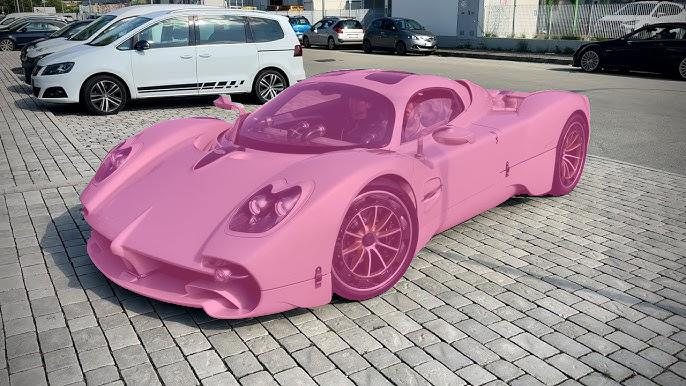
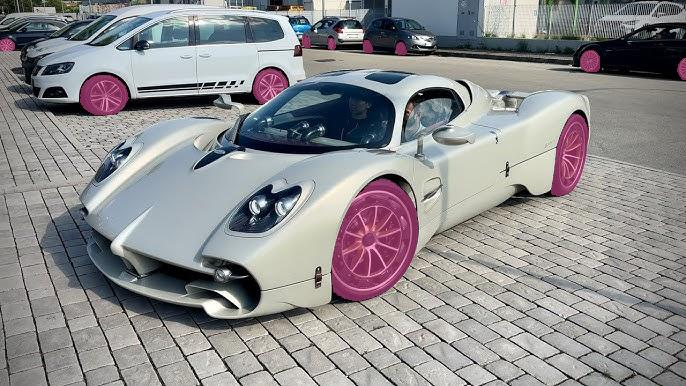
tmp

diff --git a/main.py b/main.py
@@ -1,3 +1,4 @@
+import re
 from PIL import Image
 from models import Llava
 from models import Llama
@@ -16,42 +17,102 @@ def main(inp, image_path):
     llama = Llama()
     qd = QuestionDetector()
 
-    # Generate image description with Llava
-    description = llava.chat(image, inp, None, max_new_tokens=300)
-    print('------------------------------------------------------------------------------------------------------------------------------------------------------------------------------')
-    print('Output description:\n', description)
-    print('------------------------------------------------------------------------------------------------------------------------------------------------------------------------------\n')
-    
-    is_question = qd.is_question(inp)
-    ans = llava.chat(image, inp=inp, is_question=is_question)
-    print('------------------------------------------------------------------------------------------------------------------------------------------------------------------------------')
-    if is_question:
-        print(ans[0])
-        print(ans[1])
-    else:
-        print(ans)
-    print('------------------------------------------------------------------------------------------------------------------------------------------------------------------------------\n')
-    
-    if not is_question:
-        question = f"{ans}"
-        template = "what are the main objects explicitly described in this: {question} and related to " + f"{inp}"
-        ans = llama.chat(question, template)
-        print('------------------------------------------------------------------------------------------------------------------------------------------------------------------------------')
-        print('llama:\n' + ans)
-        print('------------------------------------------------------------------------------------------------------------------------------------------------------------------------------')
+    # 步驟1：使用LLaVA描述圖片
+    description = llava.chat(image, inp, is_question=None)
+    print('Description:', description)
+
+    # 步驟2：使用LLaMA從描述中萃取物件清單
+    extract_system_prompt = """You are a helpful assistant that reads a description of an image and extracts all distinct mentioned objects.
+        Only output a numbered list of objects, one per line, no extra text, no explanations.
+        If no objects are mentioned, write nothing.
+        """
+    extract_user_prompt = f"""
+        Description:
+        \"\"\"{description}\"\"\"
+
+
+        List all distinct mentioned objects as instructed:
+        Format:
+        1. object1
+        2. object2
+    ...
+    """
+    extract_prompt = extract_system_prompt + "\n\n" + extract_user_prompt
+    extracted = llama.chat(extract_prompt)
+    print('Extracted objects (raw):', extracted)
+
+    # 使用正則解析物件列表
+    pattern = r"^\d+\.\s*(.*)$"
+    candidates = re.findall(pattern, extracted.strip(), flags=re.IGNORECASE | re.MULTILINE)
+    candidates = [c.strip() for c in candidates if c.strip()]
+    print("Candidates:", candidates)
+
+    # 若 candidates 為空嘗試一次重試
+    if not candidates:
+        extract_user_prompt_retry = f"""
+            Below is the image description again. Just list the objects, nothing else.
+
+            Description:
+            \"\"\"{description}\"\"\"
+
+
+            Format:
+            1. object1
+            2. object2
+            ...
+        """
+        extract_prompt_retry = extract_system_prompt + "\n\n" + extract_user_prompt_retry
+        extracted_retry = llama.chat(extract_prompt_retry)
+        print('Extracted objects (retry raw):', extracted_retry)
+        candidates = re.findall(pattern, extracted_retry.strip(), flags=re.IGNORECASE | re.MULTILINE)
+        candidates = [c.strip() for c in candidates if c.strip()]
+        print("Candidates after retry:", candidates)
+
+    if not candidates:
+        candidates = []
+
+    # 步驟3：依據使用者的prompt選擇最符合的候選物件
+    # 此階段僅告訴LLaMA要選出最符合描述的物件，無特定範例（泛用）
+    refine_system_prompt = """You have a list of candidate objects from an image and a user request (prompt).
+        Your job is to pick the single best matching object name from the candidate list, based strictly on the prompt.
+        Only output the object name itself or "none" if no suitable match.
+        Do not add any explanations, just output the single best matching object or "none".
+        """
+    refine_user_prompt = f"""
+        Candidate objects: {', '.join(candidates)}
+        User prompt: "{inp}"
+
+        Which candidate best matches the user's request?
+        If no candidate matches, output "none".
+    """
+    refine_prompt = refine_system_prompt + "\n\n" + refine_user_prompt
+    final_ans = llama.chat(refine_prompt)
+    print("Refined final answer:", final_ans)
+
+    final_object = final_ans.strip()
+    # 確保 final_object 在 candidates 中或為 "none"
+    if final_object.lower() not in [c.lower() for c in candidates] and final_object.lower() != "none":
+        # 若不在名單中也不是none，嘗試簡單近似匹配
+        lowered_candidates = [c.lower() for c in candidates]
+        if final_object.lower() not in lowered_candidates:
+            approximate = [c for c in candidates if final_object.lower() in c.lower()]
+            if approximate:
+                final_object = approximate[0]
+            else:
+                final_object = "none"
+
+    print(f"Final object for BoundingBoxSAM: {final_object}")
         
     # Image segmentation with langsam
     langsam = LangSAM(sam_type="sam2.1_hiera_small")
-    if is_question:
-        output = langsam.run_inference(image, ans[0])
-    else:
-        output = langsam.run_inference(image, ans)
+    output = langsam.run_inference(image, final_object)
 
     output.save(f'output_images/{image_name}')
 
 # Example usage
 if __name__ == "__main__":
-    while(True):
-        inp = input('Prompt: ')
-        image_path = input('Image path: ')
-        main(inp, image_path)
+    main('wheels', '/home/kl/llm/Reasoning-Grounding-Dino-to-Segment-Anything/input_images/car.jpg')
+    # while(True):
+    #     inp = input('Prompt: ')
+    #     image_path = input('Image path: ')
+    #     main(inp, image_path)

diff --git a/models/bbsam.py b/models/bbsam.py
@@ -56,36 +56,66 @@ class BoundingBoxSAM:
 
         raise Exception("Max retries reached without a successful result.")
 
-    def run_sam_inference(self, image_path: str, bbox: list[float]):
+    def run_sam_inference(self, image_path: str, bbox: list[list[float]]):
         # Load the image
         image_pil = Image.open(image_path).convert("RGB")
         image_array = np.asarray(image_pil)
 
-        # Prepare bounding box for SAM
-        bbox_np = np.array([bbox], dtype=np.float32)  # Ensure 2D array
+        # Prepare results
+        results = []
+        
+        # Predict masks for each bounding box
+        for box in bbox:
+            box_np = np.array(box, dtype=np.float32)
+            print(box_np)
+            masks, scores, logits = self.sam_model.predict(image_array, box_np)
+            results.append({
+                "box": box,
+                "masks": masks,
+                "scores": scores,
+                "logits": logits
+            })
 
-        # Predict masks
-        masks, scores, logits = self.sam_model.predict(image_rgb=image_array, xyxy=bbox_np)
-
-        if masks is None or len(masks) == 0:
+        if not any(result["masks"].size > 0 for result in results):
             print("No masks detected.")
             return image_pil
 
         # Draw results
+        all_masks = np.array(np.concatenate([result["masks"] for result in results], axis=0))
+        all_boxes = np.array([result["box"] for result in results])
+        all_scores = np.array([result["scores"] for result in results])
+        all_scores = np.array([p.item() for p in all_scores], dtype=np.float32)
+
+
         output_image = draw_image(
-            image_rgb=image_array,
-            masks=masks,
-            xyxy=bbox_np,
-            probs=scores,
-            labels=["Detected Object"],
+            image_array,
+            all_masks,
+            all_boxes,
+            all_scores,
+            np.array([""] * len(all_boxes))
         )
+
+        # print('mask')
+        # print(masks)
+        # masks = masks[0]
+        # normalized_array = (masks - masks.min()) / (masks.max() - masks.min()) * 255
+        # normalized_array = normalized_array.astype(np.uint8)
+
+        # # Convert to a PIL image
+        # image = Image.fromarray(normalized_array, mode='L')  # 'L' mode is for grayscale
+
+        # # Save or display the image
+        # image.save('black_white_image.png')  # Save as a file
+        # image.show()  # Display the image
+
         return Image.fromarray(np.uint8(output_image)).convert("RGB")
 
     def process_image(self, image_url: str, local_image_path: str, prompt: str, output_path: str):
         try:
             # Step 1: Send detection request
-            task_uuid = self.send_detection_request(image_url, prompt)
+            # task_uuid = self.send_detection_request(image_url, prompt)
 
+            task_uuid= 'f8beff37-aa62-453c-95b5-c9dd551b4f59'
             # Step 2: Poll for detection result
             detection_result = self.poll_detection_result(task_uuid)
 
@@ -95,7 +125,8 @@ class BoundingBoxSAM:
                 print("No objects detected.")
                 return None
 
-            bbox = objects[0]["bbox"]
+            # bbox = objects[0]["bbox"]
+            bbox = [obj["bbox"] for obj in objects]
             print(f"Bounding Box: {bbox}")
 
             # Step 4: Run SAM inference

diff --git a/main_pro.py b/main_pro.py
@@ -104,10 +104,16 @@ def main(inp, image_path, image_url):
 
 # Example usage
 if __name__ == "__main__":
-    while(True):
-        inp = input('Prompt: ')
-        image_path = input('Image path: ')
-        image_url = input('url: ')
-        if image_url.endswith('0'):
-            image_url = image_url[:len(image_url)-1] + '1'
-        main(inp, image_path, image_url)
+    url = 'https://www.dropbox.com/scl/fi/51chdqy8d2ngsd0j17ebc/car.jpg?rlkey=fe1tfaa559amebgyg5n6pw661&st=g7hugr0g&dl=1'
+    image_path = '/home/kl/llm/Reasoning-Grounding-Dino-to-Segment-Anything/input_images/car.jpg'
+    token = "e68a3624c8ab6b42c4de6f9b5cfb8b67"  # 替換為您的 token
+    bbox_sam = BoundingBoxSAM(token=token)
+
+    bbox_sam.process_image(url, image_path, 'wheels', output_path=f'output_images/111.png')
+    # while(True):
+    #     inp = input('Prompt: ')
+    #     image_path = input('Image path: ')
+    #     image_url = input('url: ')
+    #     if image_url.endswith('0'):
+    #         image_url = image_url[:len(image_url)-1] + '1'
+    #     main(inp, image_path, image_url)
